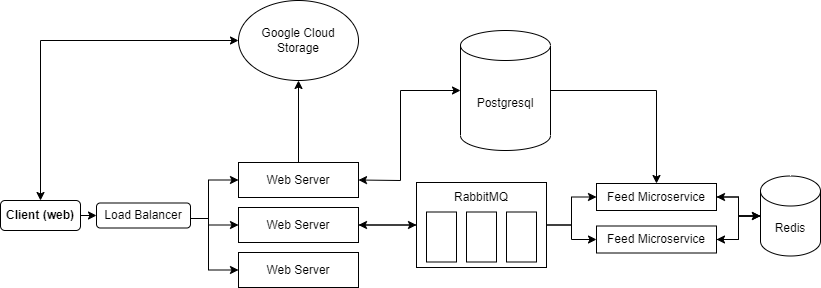
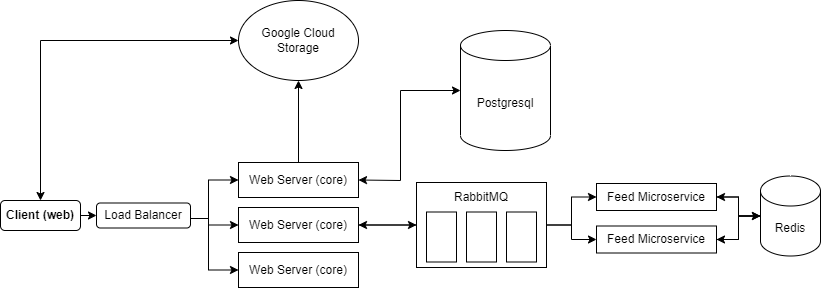
feed-svc messaging with core instead of core's DB

diff --git a/feed-microservice/src/friendships/friendships.module.ts b/feed-microservice/src/friendships/friendships.module.ts
@@ -1,24 +1,19 @@
 import { Module } from "@nestjs/common";
 import { ConfigService } from "@nestjs/config";
 import { ClientProxyFactory, Transport } from "@nestjs/microservices";
-import { TypeOrmModule } from "@nestjs/typeorm";
-import { PostRepository } from "@modules/posts/posts.repository";
-import { FeedController } from "./feed.controller";
-import { FeedService } from "./feed.service";
+import { FriendshipsService } from "./friendships.service";
 
 @Module({
-  imports: [TypeOrmModule.forFeature([PostRepository])],
-  controllers: [FeedController],
   providers: [
     {
-      provide: "FEED_SERVICE",
+      provide: "FRIENDSHIPS_SERVICE",
       useFactory: (configService: ConfigService) => {
         const config = configService.get("rabbitmq");
         return ClientProxyFactory.create({
           transport: Transport.RMQ,
           options: {
             urls: [config.uri],
-            queue: config.feedService.queue,
+            queue: config.friendshipsService.queue,
             queueOptions: { durable: true },
             noAck: false
           }
@@ -26,8 +21,8 @@ import { FeedService } from "./feed.service";
       },
       inject: [ConfigService]
     },
-    FeedService
+    FriendshipsService
   ],
-  exports: ["FEED_SERVICE", FeedService]
+  exports: ["FRIENDSHIPS_SERVICE", FriendshipsService]
 })
-export class FeedModule {}
+export class FriendshipsModule {}

diff --git a/core/src/main.ts b/core/src/main.ts
@@ -5,6 +5,7 @@ import {
   VersioningType,
   Logger
 } from "@nestjs/common";
+import { MicroserviceOptions, Transport } from "@nestjs/microservices";
 import { ConfigService } from "@nestjs/config";
 import { DocumentBuilder, SwaggerModule } from "@nestjs/swagger";
 import * as cookieParser from "cookie-parser";
@@ -54,6 +55,16 @@ async function bootstrap() {
   );
   app.use(helmet());
 
+  app.connectMicroservice<MicroserviceOptions>({
+    transport: Transport.RMQ,
+    options: {
+      urls: configService.get("rabbitmq.uri"),
+      queue: configService.get("rabbitmq.friendshipService.queue"),
+      queueOptions: { durable: true },
+      noAck: false
+    },
+  });
+
   const swaggerConfig = new DocumentBuilder()
     .setTitle("FriendsFeed API - NestJs")
     .setDescription(
@@ -65,6 +76,8 @@ async function bootstrap() {
   const swaggerDocument = SwaggerModule.createDocument(app, swaggerConfig);
   SwaggerModule.setup(`api/v${defaultVersion}/docs`, app, swaggerDocument);
   logger.log(`Swagger docs is available at api/v${defaultVersion}/docs`);
+
+  await app.startAllMicroservices();
 
   const port = configService.get("PORT");
   await app.listen(port);

diff --git a/feed-microservice/src/feed/feed.module.ts b/feed-microservice/src/feed/feed.module.ts
@@ -1,26 +1,19 @@
 import { Module } from "@nestjs/common";
-import { RedisProvider, PGProvider } from "src/common/providers";
+import { RedisProvider } from "src/common/providers";
+import { FriendshipsModule } from "src/friendships/friendships.module";
+import { FriendshipsService } from "src/friendships/friendships.service";
 import { FeedController } from "./feed.controller";
-import { FeedRepository, FriendsRepository } from "./repositories";
+import { FeedRepository } from "./feed.repository";
 import { FeedService } from "./feed.service";
-import { ConfigService } from "@nestjs/config";
 
 @Module({
+  imports: [FriendshipsModule],
   controllers: [FeedController],
   providers: [
     FeedService,
     RedisProvider,
-    {
-      provide: "PG",
-      useFactory: async (configService: ConfigService) => {
-        const pg = new PGProvider(configService);
-        await pg.init();
-        return pg.getPG();
-      },
-      inject: [ConfigService]
-    },
     FeedRepository,
-    FriendsRepository
+    FriendshipsService
   ]
 })
 export class FeedModule {}

diff --git a/core/src/modules/friendships/friendships.controller.ts b/core/src/modules/friendships/friendships.controller.ts
@@ -1,9 +1,15 @@
 import { Controller, Get, Query, UseInterceptors } from "@nestjs/common";
+import { MessagePattern, Payload } from "@nestjs/microservices";
 import { ApiTags } from "@nestjs/swagger";
 import { ValidateResDtoInterceptor } from "@common/interceptors/validate-res-dto.interceptor";
 import { GetUser } from "@common/decorators";
+import { FriendshipEvents } from "./FriendshipEvents.enum";
 import { FriendshipsService } from "./friendships.service";
-import { GetFriendRequestsDto, GetFriendRequestsResDto } from "./dto";
+import {
+  GetFriendRequestsDto,
+  GetFriendRequestsResDto,
+  GetFriendsIdsDto
+} from "./dto";
 
 @ApiTags("Friendships")
 @Controller("friendships")
@@ -20,5 +26,10 @@ export class FriendshipsController {
       userId,
       getFriendRequestsDto
     );
+  }
+
+  @MessagePattern(FriendshipEvents.GET_FRIENDS_IDS)
+  getFriendsIds(@Payload() data: GetFriendsIdsDto): Promise<number[]> {
+    return this.friendshipsService.getFriendsIds(data.userId);
   }
 }

diff --git a/feed-microservice/src/feed/feed.service.ts b/feed-microservice/src/feed/feed.service.ts
@@ -1,16 +1,17 @@
 import { Injectable } from "@nestjs/common";
-import { FeedRepository, FriendsRepository } from "./repositories";
+import { FriendshipsService } from "src/friendships/friendships.service";
+import { FeedRepository } from "./feed.repository";
 
 @Injectable()
 export class FeedService {
   constructor(
     private readonly feedRepository: FeedRepository,
-    private readonly friendsRepository: FriendsRepository
+    private readonly friendshipsService: FriendshipsService
   ) {}
 
   async addPostToUsersFeeds(postId: number, userId: number) {
-    const friends = await this.friendsRepository.findUserFriendsIds(userId);
-    return this.feedRepository.prependPostToUsersFeeds(postId, friends);
+    const friendsIds = await this.friendshipsService.getFriendsIds(userId);
+    return this.feedRepository.prependPostToUsersFeeds(postId, friendsIds);
   }
 
   getUserFeed(userId: number, limit: number) {

diff --git a/core/src/modules/friendships/friendship.repository.ts b/core/src/modules/friendships/friendship.repository.ts
@@ -200,4 +200,32 @@ export class FriendshipRepository extends Repository<Friendship> {
       limit
     };
   }
+
+  async findFriendsIds(userId: number): Promise<number[]> {
+    const query = `
+      SELECT * 
+      FROM 
+        (
+          SELECT 
+            "senderId" AS id 
+          FROM 
+            "friendships" "friendship" 
+          WHERE 
+            "friendship"."receiverId" = $1 
+            AND "friendship"."status" = $2
+        ) AS query1 
+      UNION 
+        (
+          SELECT 
+            "receiverId" AS id 
+          FROM 
+            "friendships" "friendship" 
+          WHERE 
+            "friendship"."senderId" = $1 
+            AND "friendship"."status" = $2
+        )
+    `;
+    const result = await this.query(query, [userId, FriendshipStatus.ACCEPTED]);
+    return result.map((row: { id: number }) => row.id);
+  }
 }

diff --git a/feed-microservice/src/friendships/friendships.service.ts b/feed-microservice/src/friendships/friendships.service.ts
@@ -1,0 +1,23 @@
+import { Inject, Injectable } from "@nestjs/common";
+import { ClientProxy } from "@nestjs/microservices";
+import { FriendshipEvents } from "./FriendshipEvents.enum";
+import { GetFriendsIds } from "./interfaces";
+
+@Injectable()
+export class FriendshipsService {
+  constructor(
+    @Inject("FRIENDSHIPS_SERVICE")
+    private readonly friendshipsClient: ClientProxy
+  ) {}
+
+  getFriendsIds(userId: number): Promise<number[]> {
+    const payload: GetFriendsIds = { userId };
+    return new Promise(resolve => {
+      this.friendshipsClient
+        .send<number[]>(FriendshipEvents.GET_FRIENDS_IDS, payload)
+        .subscribe(ids => {
+          return resolve(ids);
+        });
+    });
+  }
+}

diff --git a/feed-microservice/src/app.module.ts b/feed-microservice/src/app.module.ts
@@ -1,15 +1,17 @@
 import { Module } from "@nestjs/common";
 import { ConfigModule } from "@nestjs/config";
-import { rabbitmqConfig, redisConfig, pgConfig } from "./config";
+import { rabbitmqConfig, redisConfig } from "./config";
 import { FeedModule } from "./feed/feed.module";
+import { FriendshipsModule } from "./friendships/friendships.module";
 
 @Module({
   imports: [
     ConfigModule.forRoot({
       isGlobal: true,
-      load: [rabbitmqConfig, redisConfig, pgConfig]
+      load: [rabbitmqConfig, redisConfig]
     }),
-    FeedModule
+    FeedModule,
+    FriendshipsModule
   ]
 })
 export class AppModule {}

diff --git a/core/src/config/rabbitmq.config.ts b/core/src/config/rabbitmq.config.ts
@@ -1,8 +1,11 @@
 import { registerAs } from "@nestjs/config";
 
 export const rabbitmqConfig = registerAs("rabbitmq", () => ({
+  uri: process.env.RMQ_URI,
   feedService: {
-    uri: process.env.FEED_RMQ_URI,
     queue: process.env.FEED_RMQ_QUEUE || "feed"
+  },
+  friendshipService: {
+    queue: process.env.FRIENDSHIP_RMQ_QUEUE || "friendships"
   }
 }));

diff --git a/core/src/modules/comments/comments.service.ts b/core/src/modules/comments/comments.service.ts
@@ -52,7 +52,6 @@ export class CommentsService {
   async getComment(commentId: number, postId: number) {
     const comment = await this.commentRepository.findCommentById(commentId);
     if (!comment || comment.postId != postId) {
-      console.log(comment);
       throw new NotFoundException("Comment not found");
     }
     return comment;

diff --git a/core/src/modules/users/users.service.ts b/core/src/modules/users/users.service.ts
@@ -69,7 +69,6 @@ export class UsersService {
   }
 
   async updateFcmToken(userId: number, newToken: string, oldToken?: string) {
-    console.log("updateFcmToken", userId, newToken, oldToken);
     const user = await this.userRepository.findUserById<{
       id: number;
       fcmTokens: string[];

diff --git a/core/src/modules/friendships/friendships.service.ts b/core/src/modules/friendships/friendships.service.ts
@@ -193,4 +193,8 @@ export class FriendshipsService {
   getFriends(userId: number, filter: GetUserFriendsDto) {
     return this.friendshipRepository.findFriends(userId, filter);
   }
+
+  getFriendsIds(userId: number) {
+    return this.friendshipRepository.findFriendsIds(userId);
+  }
 }
